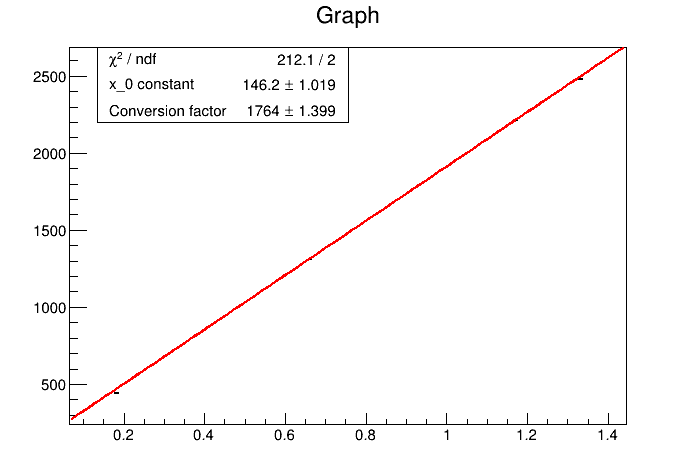
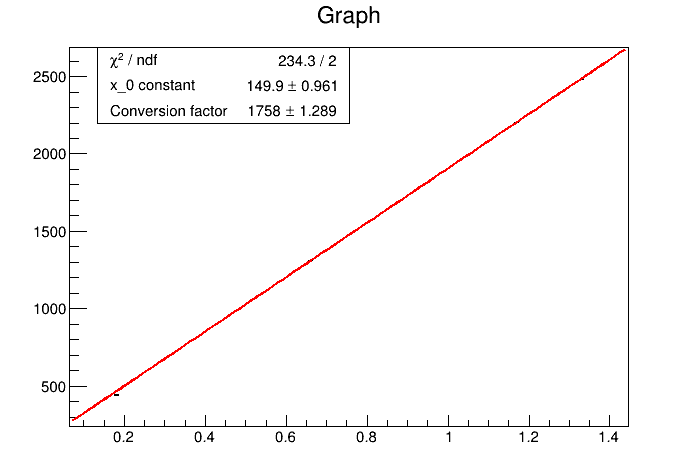
calibration pmt1 e pmt2

diff --git a/calibration.cpp b/calibration.cpp
@@ -11,40 +11,49 @@ vector<float> fit_gaus (TFile *f ,string name_pmt, string type, vector<float> ra
 
     list <string> samples{
         name_pmt + "_co_100",
-        name_pmt + "_cs_100"
+        name_pmt + "_cs_100", 
+        name_pmt + "_NA_e6_100"
     };
 
-    vector<float> fit_params;
+    vector<float> gaus_params;
     int i=0;
 
     for(list<string>::const_iterator sample = samples.begin(); sample != samples.end(); ++sample){
         TH1F *histo = nullptr;
 
+        cout << endl;
+        cout << "__________________________ Gaussian fit: " << *sample << type << " __________________________"<<endl; 
+        cout << endl;
+        
         f->GetObject(&(*sample + type)[0], histo);
         TCanvas *c = new TCanvas(&(*sample + type)[0], &(*sample + type)[0]);
         TF1 *gaus1 = new TF1("gaus1","[0]*exp(-0.5*pow(((x-[1])/[2]),2))",range[i+0],range[i+1]);
         TF1 *gaus2 = new TF1("gaus2","[0]*exp(-0.5*pow(((x-[1])/[2]),2))",range[i+2],range[i+3]);
-        gaus1->SetParameters(2000, abs(range[i+0]+range[i+1])/2, abs(range[i+1]-range[i+0]));
-        gaus2->SetParameters(2000, abs(range[i+2]+range[i+3])/2, abs(range[i+3]-range[i+2]));
+        gaus1->SetParameters(1000, abs(range[i+0]+range[i+1])/2, abs(range[i+1]-range[i+0]));
+        gaus2->SetParameters(1500, abs(range[i+2]+range[i+3])/2, abs(range[i+3]-range[i+2]));
         histo->Fit("gaus1","R", "SAME");
         gaus1->Draw("SAME");
         histo->Fit("gaus2","R", "SAME"); 
         gaus2->Draw("SAME");
         histo->Draw("SAME");
         gStyle->SetOptFit(111111);
-        fit_params.push_back(gaus1->GetParameter(1));
-        fit_params.push_back(gaus1->GetParError(1));
-        fit_params.push_back(gaus2->GetParameter(1));
-        fit_params.push_back(gaus2->GetParError(1));
+        gaus_params.push_back(gaus1->GetParameter(1));
+        gaus_params.push_back(gaus1->GetParError(1));
+        gaus_params.push_back(gaus2->GetParameter(1));
+        gaus_params.push_back(gaus2->GetParError(1));
         i +=4;
     }
-    return fit_params;
+    return gaus_params;
 }
 
-void fit_lin(string name_pmt, string type, vector<float> fit_params){
-    double x[4]={0.18, 0.66, 1.17, 1.33};
-    double y[4]={fit_params[4], fit_params[6], fit_params[0], fit_params[2]};
-    double y_err[4] = {fit_params[5], fit_params[7], fit_params[1], fit_params[3]};
+auto fit_lin(string name_pmt, string type, vector<float> gaus_params){
+    float x[4]={0.18, 0.66, 1.17, 1.33};
+    float y[4]={gaus_params[4], gaus_params[6], gaus_params[0], gaus_params[2]};
+    float y_err[4] = {gaus_params[5], gaus_params[7], gaus_params[1], gaus_params[3]};
+
+    cout << endl;
+    cout << "__________________________ Linear fit: " << name_pmt << type << " __________________________"<<endl; 
+    cout << endl;
 
     TCanvas *c_fit_lin = new TCanvas(&("images/" + name_pmt + type + "_calibration")[0], &("images/" + name_pmt + type + "_calibration")[0]);
     TGraphErrors* gr = new TGraphErrors(4,x,y,nullptr,y_err);
@@ -58,37 +67,77 @@ void fit_lin(string name_pmt, string type, vector<float> fit_params){
     linear->Draw("SAME");
     gStyle->SetOptFit(111);
     c_fit_lin->SaveAs(&("images/" + name_pmt + type + "_calibration.png")[0]);
+
+    vector<double> cal_factor{linear->GetParameter(1),linear->GetParError(1)};
+    return cal_factor;
 }
+
+auto division(vector<double> cal_factor, float peak, float peak_err){
+    vector<float> p;
+    p.push_back(peak/cal_factor[0]);
+    float e = sqrt(pow(peak_err/cal_factor[0], 2) + pow(peak*cal_factor[1]/(cal_factor[0]*cal_factor[0]), 2));
+    p.push_back(e);
+    return p;
+}
+
+auto peak_energy(string name_pmt, string type, vector<double> cal_factor, vector<float> gaus_params){
+    vector<float> energy;
+    vector<float> x(division(cal_factor, gaus_params[8], gaus_params[9]));    
+    vector<float> y(division(cal_factor, gaus_params[10], gaus_params[11]));
+    energy.insert(energy.end(), x.begin(), x.end());
+    energy.insert(energy.end(), y.begin(), y.end());
+
+    string peak1 = "energy peak " + name_pmt + " " + type + " = " + to_string(energy[0]) + "+-" + to_string(energy[1]);
+    string peak2 = "energy peak " + name_pmt + " " + type + " = " + to_string(energy[2]) + "+-" + to_string(energy[3]);
+    vector <string> energy_string;
+    energy_string.push_back(peak1);
+    energy_string.push_back(peak2);
+    //cout<< "energy peak "<< name_pmt <<" "<< type << " = " << energy[0] <<"+-" << energy[1] <<endl;
+    //cout<< "energy peak "<< name_pmt <<" "<< type << " = " << energy[2] <<"+-" << energy[3] <<endl;
+    return energy_string;
+
+}
+
 
 void calibration(){
     // ordine del vector:
     // primo è per charge e secondo è per ampiezza
     // prima i 4 punti del co e poi i 4 del cs (e poi i 4 del NA)
     map<string, vector<vector<float>>> pmts{
-        {"pmt1",{{165000, 185000, 185000, 210000, 26000, 37000, 93000, 113000},
-            {2300, 2350, 2350, 2800, 300, 600, 1150, 1600}}}
-        /*{"pmt2",{{165000, 185000, 185000, 210000, 26000, 37000, 93000, 113000},
-            {165000, 185000, 185000, 210000, 26000, 37000, 93000, 113000}}},
-        {"pmt3",{{165000, 185000, 185000, 210000, 26000, 37000, 93000, 113000},
-            {165000, 185000, 185000, 210000, 26000, 37000, 93000, 113000}}}*/
+        {"pmt1",{{165000, 185000, 185000, 210000, 26000, 37000, 93000, 113000, 65000, 90000, 175000, 210000},
+            {2050, 2350, 2350, 2800, 300, 600, 1150, 1600, 850, 1300, 2200, 2700}}},
+        {"pmt2",{{150000, 172000, 172000, 196000, 20000, 37000, 80000, 110000, 60000,90000, 165000, 200000},
+            {1900, 2300, 2300, 2800, 250, 600, 1050, 1600, 800, 1200, 2100, 2600}}}
+        /*{"pmt3",{{28000,33000,33000,38000,22000, 40000, 90000, 120000},
+            {}}}*/
     };
     
     TFile *f = new TFile("histograms/histograms_calibration.root");
 
+    vector <string> energy;
 
     for (const auto &pmt : pmts) {
         const auto name_pmt = pmt.first;
-        const auto ranges = pmt.second;        
-        vector<float> fit_charge=fit_gaus(f, name_pmt, "_charge", ranges[0]);
-        for (int i=0; i<fit_charge.size(); i++){
-        cout << fit_charge[i]<< endl;            
-        }
-        vector<float> fit_amp=fit_gaus(f, name_pmt, "_amp", ranges[1]);
-        //cout << fit_amp[0]<< endl;
-        fit_lin(name_pmt, "_charge", fit_charge);
-        fit_lin(name_pmt, "_amp", fit_amp);
+        const auto ranges = pmt.second;  
+
+        cout << endl; 
+        cout << "========================= Analyzing: " << name_pmt << " ========================="<<endl;    
+        cout << endl;
+
+        vector<float> gaus_charge=fit_gaus(f, name_pmt, "_charge", ranges[0]);
+        vector<float> gaus_amp=fit_gaus(f, name_pmt, "_amp", ranges[1]);
+        auto cal_charge = fit_lin(name_pmt, "_charge", gaus_charge);
+        auto cal_amp = fit_lin(name_pmt, "_amp", gaus_amp);
+        vector<string> x= peak_energy(name_pmt, "_charge", cal_charge, gaus_charge);
+        vector<string> y= peak_energy(name_pmt, "_amp", cal_amp, gaus_amp);
+        energy.insert(energy.end(), x.begin(), x.end());
+        energy.insert(energy.end(), y.begin(), y.end());
+
+    }
+    cout << endl;
+    for (int i=0; i<energy.size(); i++){
+        cout << energy[i]<< endl;            
     }
 
 }
 
-// aggiungi funzione che converte picco NA da digit a ev e propaga errore

diff --git a/main_func.cpp b/main_func.cpp
@@ -117,8 +117,8 @@ vector <TH1F*> make_histo(string path,string name){
 void main_func (){
     gROOT->SetBatch(kFALSE);
     vector <TH1F*> histos;
-    TFile *outfile= new TFile("histograms/histograms.root", "RECREATE");
-    list <string> names ={"pmt1_NA_e6_100_or_run1",
+    TFile *outfile= new TFile("histograms/histograms_calibration.root", "RECREATE");
+    list <string> names ={/*"pmt1_NA_e6_100_or_run1",
                         "pmt2_NA_e6_100_or_run1",
                         "pmt1_NA_e6_700_or_run2",
                         "pmt2_NA_e6_700_or_run2",
@@ -127,19 +127,22 @@ void main_func (){
                         "pmt1_NA_e6_ext_run1",
                         "pmt2_NA_e6_ext_run1",
                         "pmt1_NA_e6_ext_run2",
-                        "pmt2_NA_e6_ext_run2",
+                        "pmt2_NA_e6_ext_run2",*/
                         "pmt1_NA_e6_100",
                         "pmt2_NA_e6_100",
+                        "pmt3_NA_e6_100",
                         "pmt1_co_100", 
                         "pmt2_co_100",
-                        "pmt1_na_100", 
-                        "pmt2_na_100", 
+                        "pmt3_co_100",
+                        //"pmt1_na_100", 
+                        //"pmt2_na_100", 
                         "pmt1_cs_100", 
                         "pmt2_cs_100",
+                        "pmt3_cs_100",/*
                         "pmt1_bkg_100", 
                         "pmt2_bkg_100", 
                         "pmt1_null", 
-                        "pmt2_null"};
+                        "pmt2_null"*/};
     TStopwatch time_tot;
     time_tot.Start();                
     for(list<string>::const_iterator name = names.begin(); name != names.end(); ++name){
